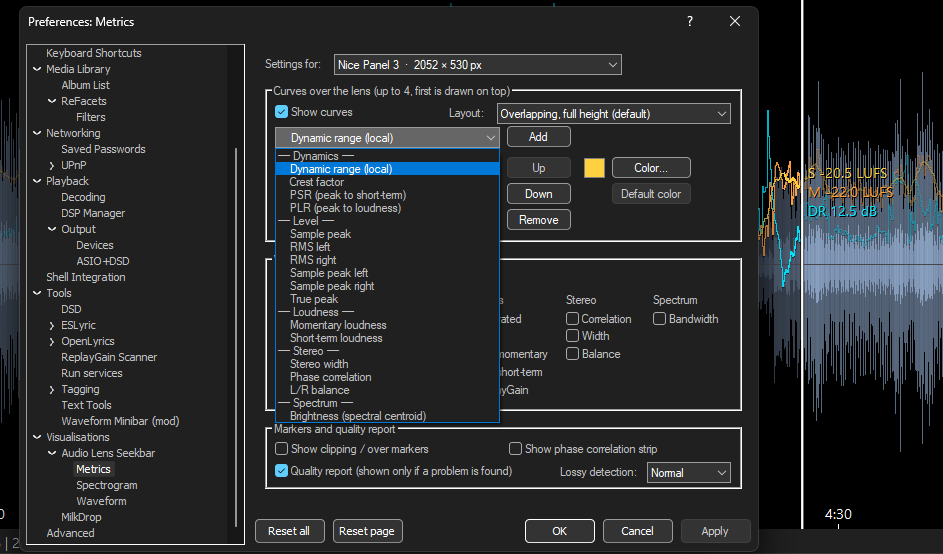
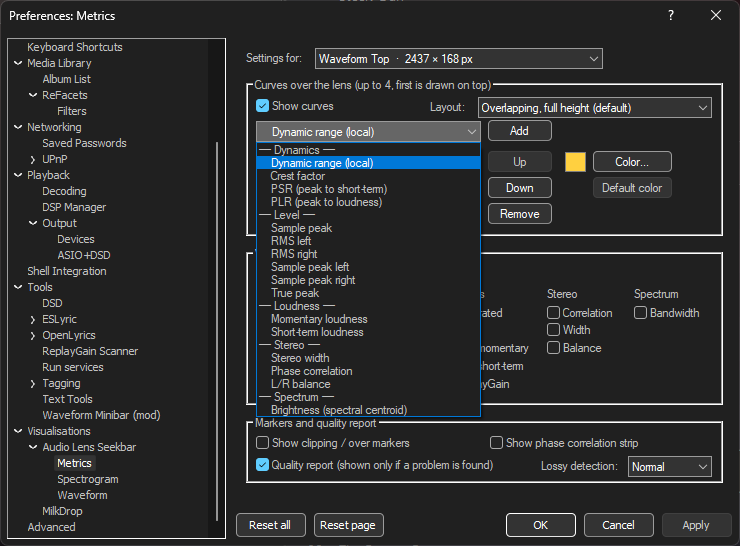
Audio Lens Seekbar 1.1.0

diff --git a/README.md b/README.md
@@ -87,10 +87,13 @@ badge appears only if something is found.
 - Every panel has its own settings and name; 9 built-in presets plus your own.
 - 19 color themes, including C64, Amstrad CPC, NES, Sega Master System, Amiga and an adaptive theme from the
   album art.
+- Position marker to your taste: width down to a crisp 1 px line, color, outline, optional glow.
+- Transparent background: the panel can show your layout's or skin's background, with adjustable lens opacity.
 - Fullscreen across one or more monitors.
 - Export the view or an analysis sheet as PNG or to the clipboard.
 - Playlist context menu *Audio Lens → Analyze (add to cache) / Remove from cache*; optionally analyzes the next
-  track during playback. Results are kept in a memory and a compressed disk cache.
+  track during playback. Results are kept in a memory and a compressed disk cache; panels showing the same
+  track share one analysis.
 
 ![Retro themes](screenshots/09-themes.png)
 *Some of the themes: C64, NES, Sega Master System, Amstrad CPC (spectrum bars), green monitor.*
@@ -110,7 +113,12 @@ badge appears only if something is found.
 Panel settings: right-click → *Configure this panel…*. Defaults for new panels, all visible panels and global
 options (cache, fullscreen, pre-analysis): *Preferences → Visualisations → Audio Lens Seekbar*.
 
-![Preferences](screenshots/08-preferences.png)
+![Preferences: main page](screenshots/10-preferences2.png)
+*Main page: settings for a chosen panel or the defaults for new panels — lens, title, display, position marker,
+transparency, cache.*
+
+![Preferences: metrics](screenshots/08-preferences.png)
+*Metrics page: curves, values and the quality report.*
 
 ## Feedback
 

diff --git a/CHANGELOG.md b/CHANGELOG.md
@@ -1,5 +1,21 @@
 # Changelog
 
+## 1.1.0
+
+- **Position marker** can be configured: width (down to a crisp 1 px line), color (white, theme color or your
+  own), dark outline, smooth or whole-pixel movement. *Right-click → Display → Position marker*
+- **Transparent background:** the panel can show the background of your layout or skin; the opacity of the lens
+  is adjustable. *Right-click → Display → Transparent background*
+- Darkening of the played part can be switched off. *Right-click → Display → Shade played portion*
+- Loudness values are labelled LUFS-I, LUFS-M and LUFS-S.
+- About 40 % smaller disk cache, and the new format is designed to stay valid in future versions. Cache files from
+  1.0 are not reused: each track is analyzed once more.
+- Several panels showing the same track (e.g. spectrogram and waveform) now share one analysis.
+- Fixed: in Default UI layout editing mode, right-click shows the layout menu again (e.g. *Replace UI Element*).
+- Fixed: the quality report badge shows its details even when tooltips are off; findings are also written to the
+  console.
+- Fixed: the loudness heatmap no longer repeats values that are already shown in the corner.
+
 ## 1.0.0 — first release
 
 - Lenses: spectrogram, waveform (plain / 3-band), spectrum bars at the playback position, loudness heatmap;
